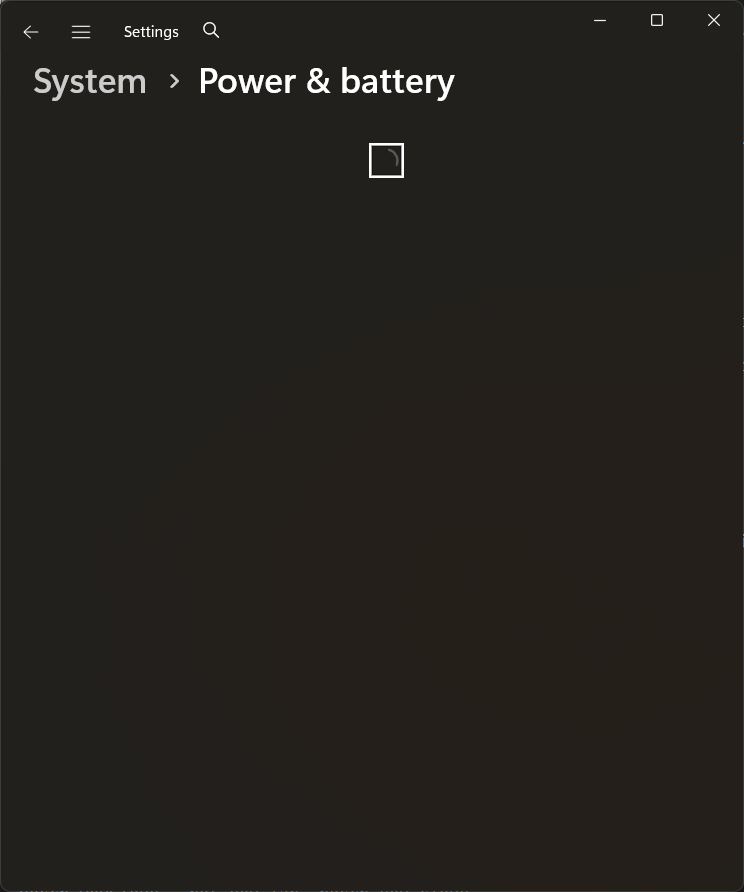
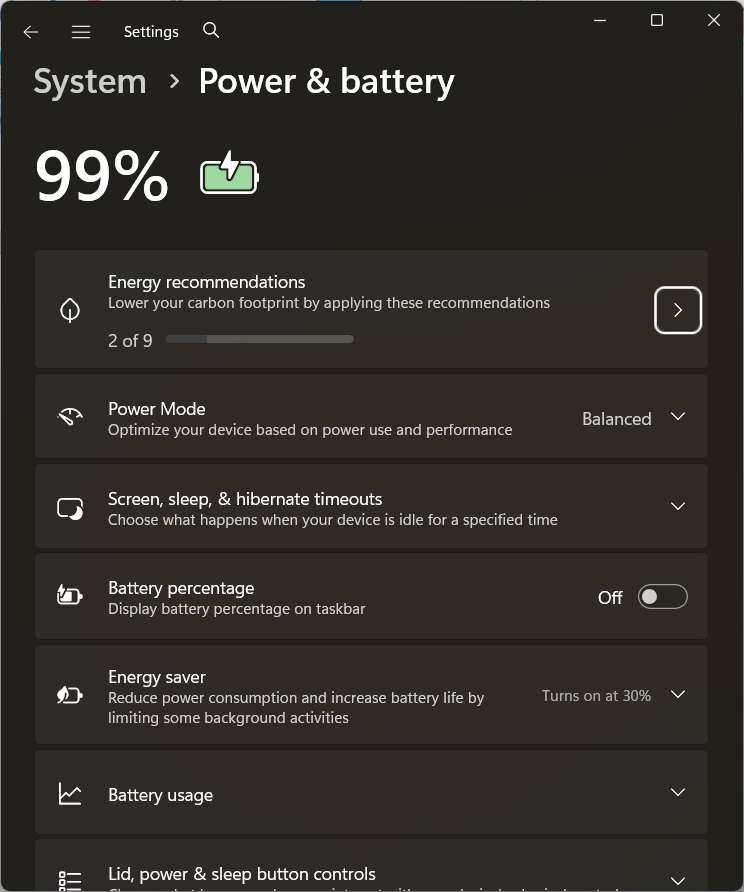
fix(bench): recapture winsettings__power after it loaded; the harvester refuses a capture whose labels point at blank screen
The state was captured mid-load: the screenshot showed a spinner while the UIA tree already listed the whole page. check_painted refuses a capture when 30% or more of the labelled boxes are one flat colour (the bad state had 50%, every other state 15% or less). The manifest regenerates byte-identical: the state's 4 steps were on the visible breadcrumb.

diff --git a/src/visual_dom/evaluation/lifecycle/harvest.py b/src/visual_dom/evaluation/lifecycle/harvest.py
@@ -255,6 +255,39 @@ def confirm_printed(gt, image, read):
     return gt
 
 
+def unpainted(gt, image, min_std=4.0):
+    """
+    Ids of the named elements whose box is one flat colour on the screenshot.
+
+    A page that is still loading (Windows Settings shows a spinner) already
+    has its full UIA tree, so every element is labelled while the screen
+    shows none of them; the before/after comparison cannot see it because
+    the blank page does not change. A few flat boxes are normal (a collapsed
+    label, a scroll-bar arrow); most of them mean the page is not drawn.
+    """
+    ids = []
+    for e in gt["elements"]:
+        if not e.get("ocr_text") or e["visual_type"] == "block":
+            continue
+        x0, y0, x1, y1 = e["bounds"]
+        crop = image[y0:y1, x0:x1]
+        if crop.size and float(crop.std()) < min_std:
+            ids.append(e["id"])
+    return ids
+
+
+def check_painted(gt, image, max_share=0.3, min_count=3):
+    """Refuse a capture whose labels mostly point at blank screen."""
+    named = sum(1 for e in gt["elements"]
+                if e.get("ocr_text") and e["visual_type"] != "block")
+    blank = unpainted(gt, image)
+    if named and len(blank) >= min_count and len(blank) >= max_share * named:
+        raise RuntimeError(
+            f"{len(blank)} of {named} labelled elements are blank on the screenshot "
+            f"({', '.join(blank[:6])}...) - the page is probably still loading; "
+            "wait until it is drawn and capture again (--delay)")
+
+
 def recheck_printed(root=DEFAULT_ROOT, read=None):
     """Re-read every demoted element of every saved state with the current
     reader and restore the ones whose name is now found. Returns the ids of
@@ -406,6 +439,7 @@ def capture_state(title, app, state, root=DEFAULT_ROOT, delay=0.0, check_printed
 
     h, wd = before.shape[:2]
     gt = uia_to_gt(nodes, (origin[0], origin[1], wd, h), (wd, h))
+    check_painted(gt, before)
     if read:
         confirm_printed(gt, before, read)
     else:

diff --git a/tests/unit/test_realworld_harvest.py b/tests/unit/test_realworld_harvest.py
@@ -12,11 +12,13 @@ import pytest
 
 from visual_dom.evaluation.lifecycle.generate import generate_steps
 from visual_dom.evaluation.lifecycle.harvest import (
+    check_painted,
     confirm_printed,
     looks_icon_only,
     name_is_printed,
     review_sheet,
     uia_to_gt,
+    unpainted,
 )
 
 CLIENT = (100, 200, 400, 300)          # x, y, w, h on the screen
@@ -116,6 +118,36 @@ def test_guessed_icon_only_is_restored_when_its_name_is_printed():
     assert (bell["visual_type"], bell["role_word"]) == ("button", "tree item")
     assert "review" not in bell
     assert bold["visual_type"] == "icon" and bold["review"] == "icon-only?"
+
+
+def _painted_gt(n_blank, n_drawn):
+    """n_drawn text boxes over a drawn stripe, n_blank over flat background."""
+    image = np.full((400, 200, 3), 30, np.uint8)
+    els = []
+    for i in range(n_blank + n_drawn):
+        y = 10 + 30 * i
+        if i >= n_blank:
+            image[y + 5:y + 15, 15:80] = 230
+        els.append({"id": f"E{i + 1}", "bounds": [10, y, 90, y + 20],
+                    "visual_type": "text", "ocr_text": f"label {i}"})
+    els.append({"id": "B", "bounds": [0, 0, 200, 400], "visual_type": "block"})
+    return {"elements": els}, image
+
+
+def test_a_page_still_loading_is_refused():
+    # Windows Settings mid-load: the UIA tree is complete, the screen is not
+    gt, image = _painted_gt(n_blank=6, n_drawn=4)
+    assert len(unpainted(gt, image)) == 6
+    with pytest.raises(RuntimeError, match="still loading"):
+        check_painted(gt, image)
+
+
+def test_a_few_flat_boxes_are_tolerated():
+    # a collapsed label or a scroll-bar arrow is blank on a drawn page
+    gt, image = _painted_gt(n_blank=2, n_drawn=10)
+    check_painted(gt, image)
+    gt, image = _painted_gt(n_blank=0, n_drawn=5)
+    assert unpainted(gt, image) == []
 
 
 def _state(root, sid, captions, extra_names=()):
